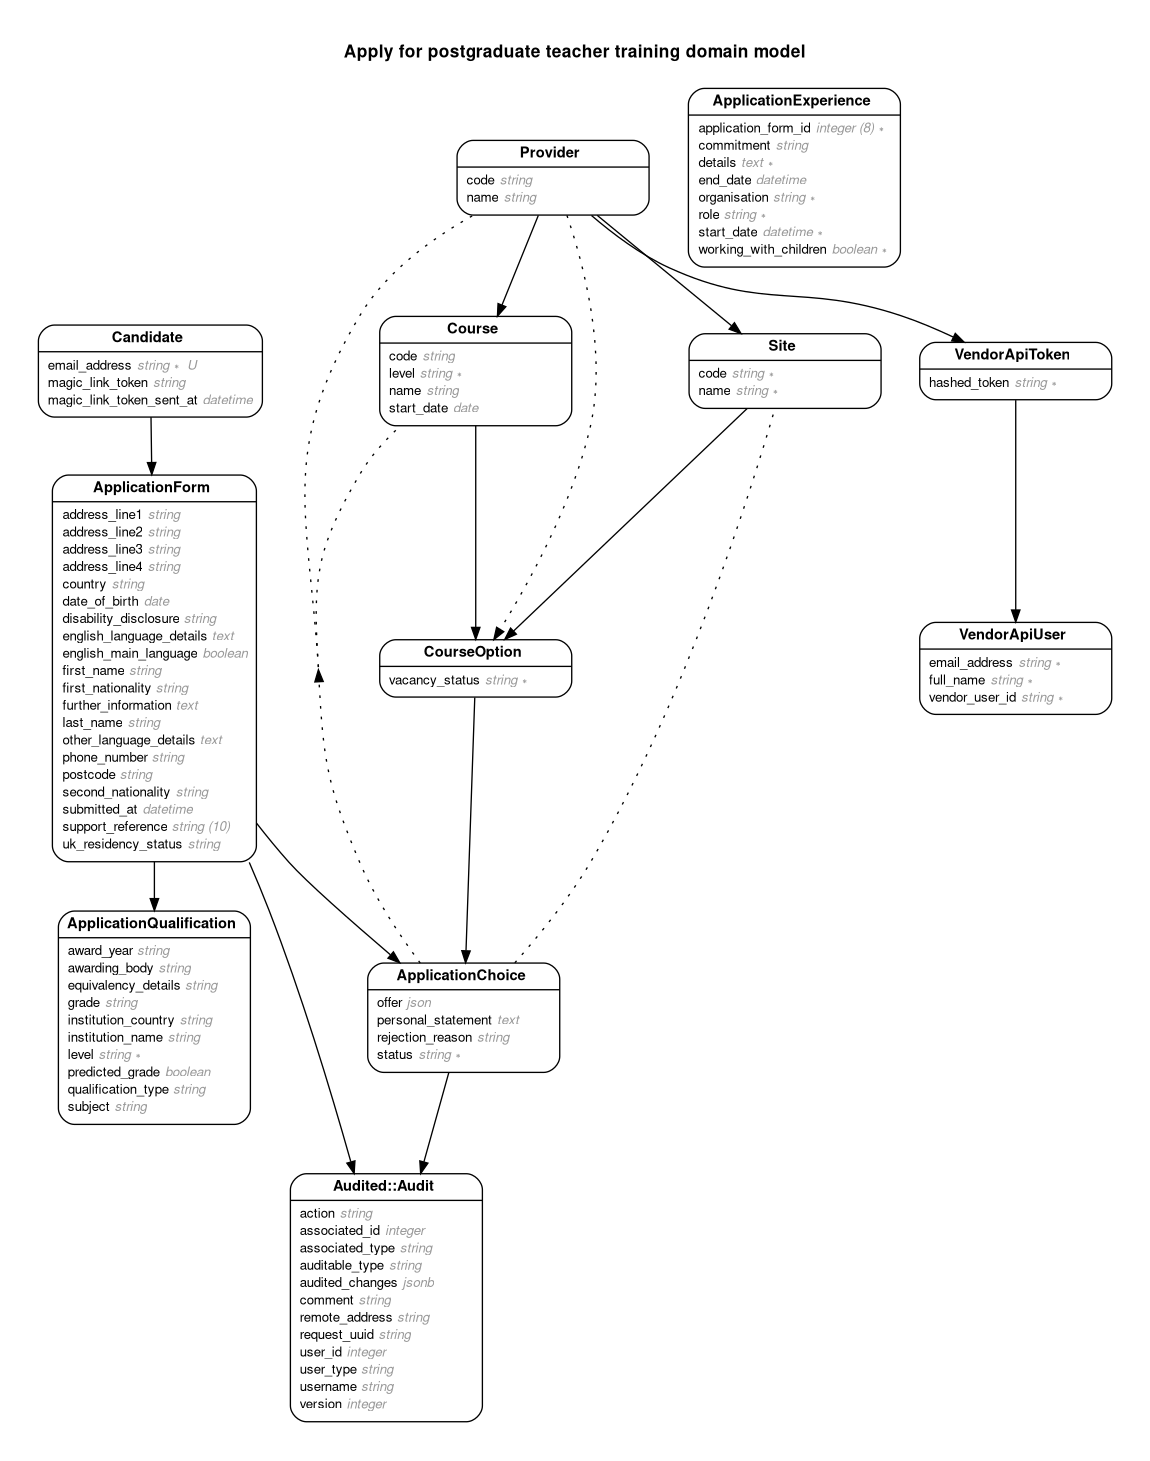
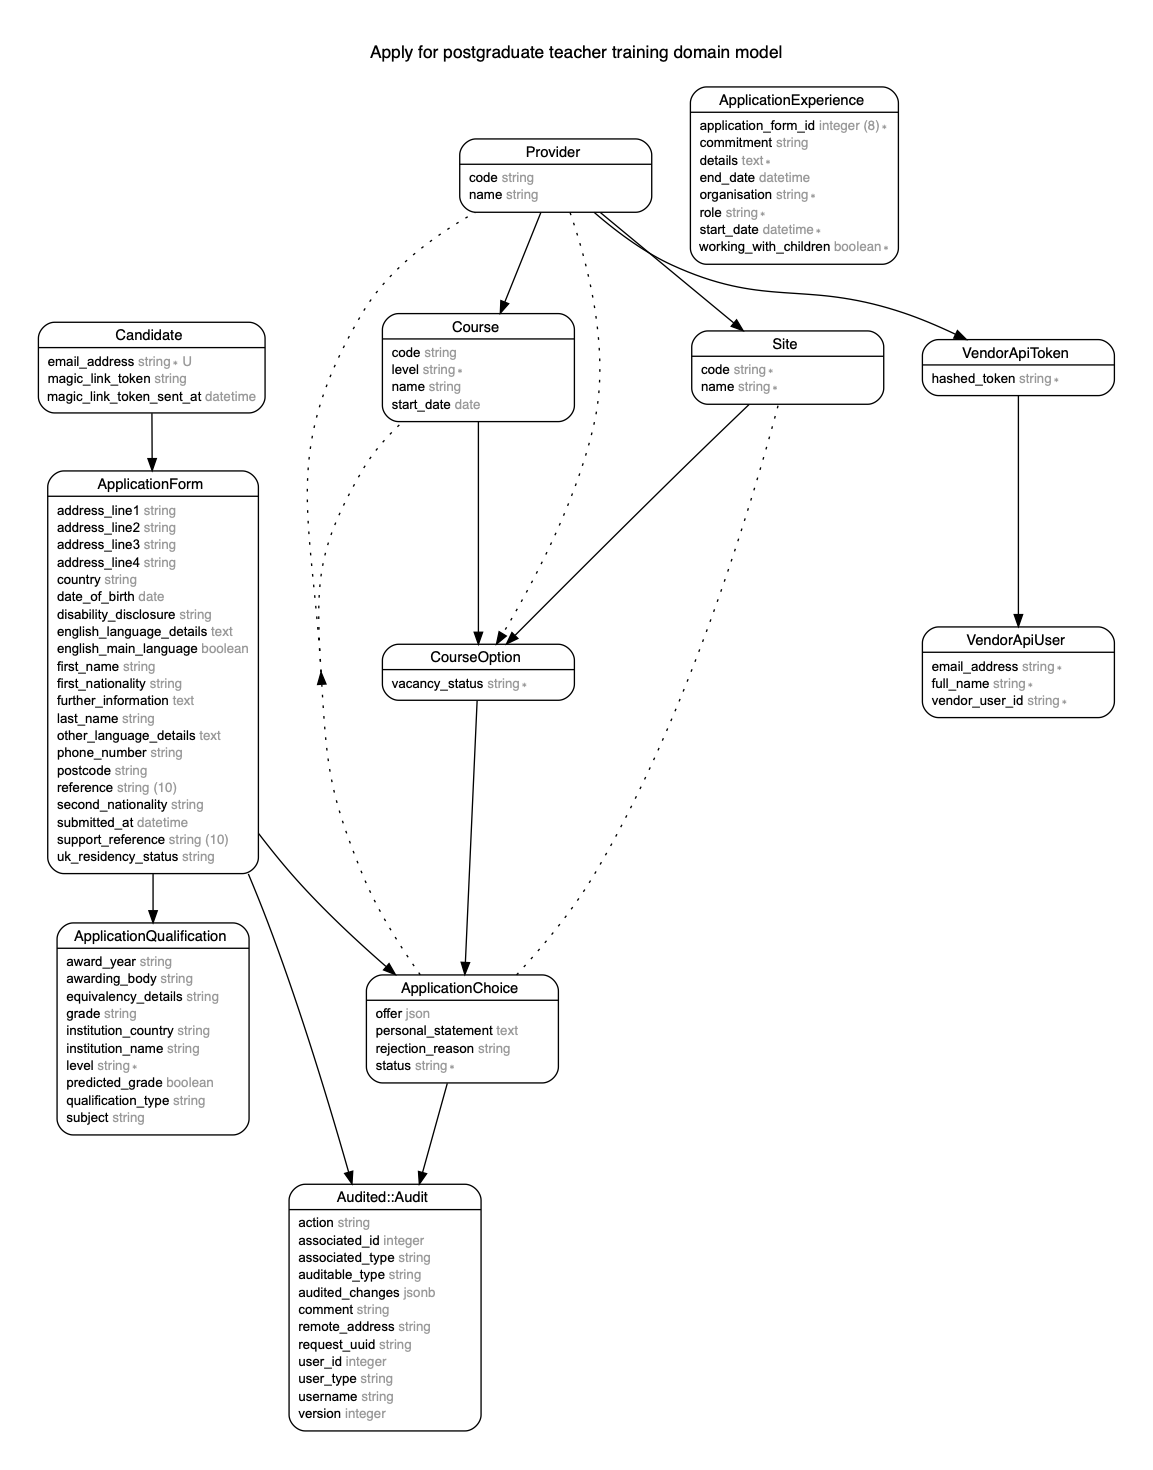
Small improvements on GCSE specs

diff --git a/spec/system/candidate_interface/candidate_entering_GCSE_spec.rb b/spec/system/candidate_interface/candidate_entering_GCSE_spec.rb
@@ -1,28 +1,28 @@
 require 'rails_helper'
 
-RSpec.feature 'Entering their contact details' do
+RSpec.feature 'Candidate entering GCSE details' do
   include CandidateHelper
 
   scenario 'Candidate submits their maths GCSE details' do
     given_i_am_signed_in
     and_i_visit_the_candidate_application_page
-    and_i_click_on_the_maths_GCSE_link
+    and_i_click_on_the_maths_gcse_link
 
-    then_i_see_the_add_GCSE_maths_page
+    then_i_see_the_add_gcse_maths_page
 
-    when_i_select_GCSE_option
-    then_i_see_the_summary_for_maths_GCSE
+    when_i_select_gcse_option
+    then_i_see_the_summary_for_maths_gcse
   end
 
   scenario 'Candidate submits their english GCSE details' do
     given_i_am_signed_in
     and_i_visit_the_candidate_application_page
-    and_i_click_on_the_english_GCSE_link
+    and_i_click_on_the_english_gcse_link
 
-    then_i_see_the_add_GCSE_english_page
+    then_i_see_the_add_gcse_english_page
 
-    when_i_select_GCSE_option
-    then_i_see_the_summary_for_english_GCSE
+    when_i_select_gcse_option
+    then_i_see_the_summary_for_english_gcse
   end
 
   def given_i_am_signed_in

diff --git a/db/schema.rb b/db/schema.rb
@@ -59,6 +59,7 @@ ActiveRecord::Schema.define(version: 2019_10_29_145309) do
     t.text "further_information"
     t.datetime "submitted_at"
     t.string "support_reference", limit: 10
+    t.string "reference", limit: 10
     t.string "phone_number"
     t.string "address_line1"
     t.string "address_line2"
@@ -66,7 +67,6 @@ ActiveRecord::Schema.define(version: 2019_10_29_145309) do
     t.string "address_line4"
     t.string "country"
     t.string "postcode"
-    t.string "support_reference", limit: 10
     t.string "disability_disclosure"
     t.string "uk_residency_status"
     t.index ["candidate_id"], name: "index_application_forms_on_candidate_id"
